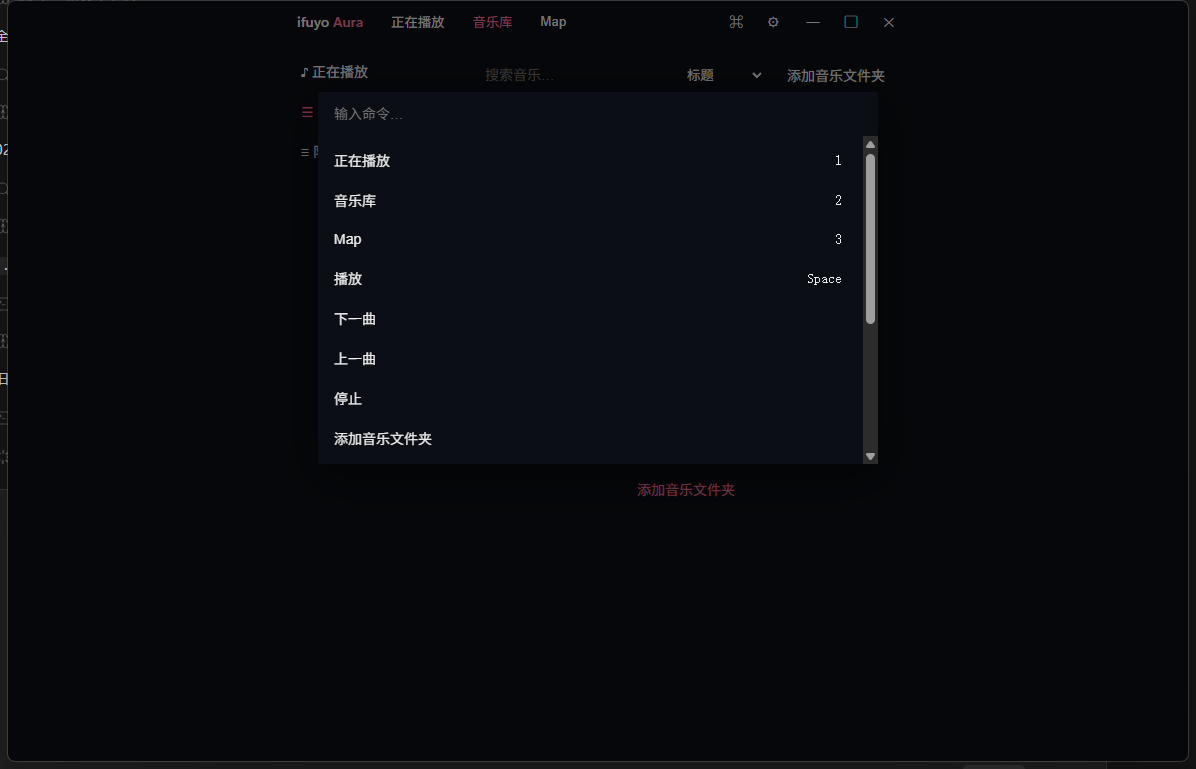
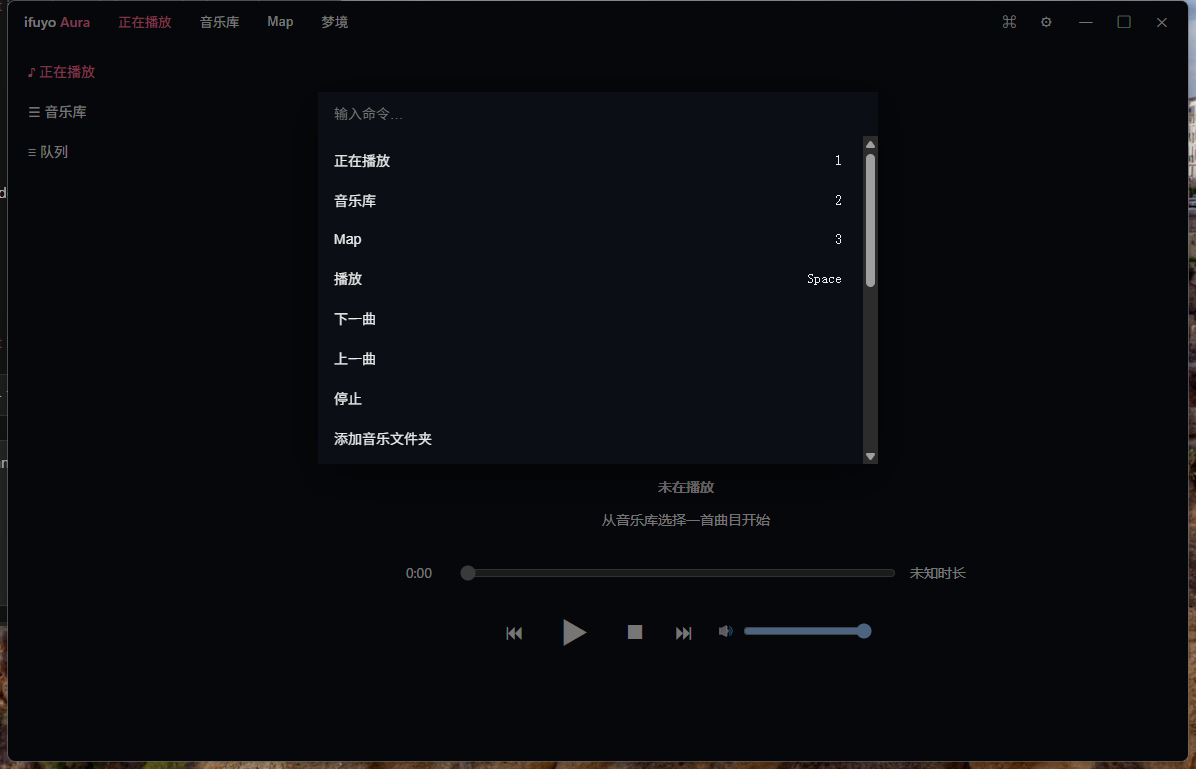
M7-B-f: 满幅渲染修复+真实构建截图×8+生成链 PERF 基线（§243/§244/§282/§320）
真实构建截图管线暴露并修复的缺陷：
- base.css body{display:grid;place-items:center}（Phase 0 遗留）使
  app-root 收缩居中——主布局/画布全被压缩；移除后满幅（§282）
- manifest/seed/ObjectFamily serde 未 camelCase → 前端 validation-first
  守卫拒绝 → 真实运行 fallback（§253 起效但根因在后端 DTO）→ 补齐
  rename_all，快照 JSON 键随动（dev 期文件重建）
- renderer：create/loadWorld 时初始 setSize（此前从未调用 → 画布
  默认 300×150）；scene.background = palette 派生天空色（替代黑带）
- capture 脚本：导航改鼠标点击（ClientToScreen），绕开 IME 对
  SendKeys 文本的拦截；queue 关闭改 Esc

证据：docs/screenshots ×8（01-05/07/10/12）全部来自 custom-protocol
release 构建；10/12 = Dreamscape 真实世界（地形+实例化物件+天空）
perf_generation.rs（ignored 显式跑）：seed→genome 475ns、world 生成
9.9ms(default)/10.8ms(dense)、manifest ser 996µs/de 814µs/hash 60µs、
snapshot save 125µs/load 111µs → PERF.md M7 节

diff --git a/ui/src/visual/dreamscape/DreamscapeRenderer.ts b/ui/src/visual/dreamscape/DreamscapeRenderer.ts
@@ -1,7 +1,7 @@
 // DreamscapeRenderer（§128–§132/§144–§153/§265–§267）：Three.js 装配 +
 // 纯逻辑 engine 驱动。生命周期：create → loadWorld → render ⇄ pause →
 // dispose；context lost → paused → restored 重建（§151）。
-import { Scene, PerspectiveCamera, WebGLRenderer, Clock } from 'three';
+import { Scene, PerspectiveCamera, WebGLRenderer, Clock, Color } from 'three';
 import {
   AutoQuality,
   GenerationGate,
@@ -68,6 +68,7 @@ export class DreamscapeRenderer {
       return false;
     }
     this.applyPixelRatio();
+    this.applyCanvasSize(canvas);
     this.scene = new Scene();
     this.camera = new PerspectiveCamera(55, 1, 0.1, 600);
     // §151：context loss → paused；restored → 重建 GPU 资源。
@@ -110,6 +111,13 @@ export class DreamscapeRenderer {
     this.manifest = manifest;
     this.built = buildScene(manifest, this.settings, this.disposables);
     scene.add(this.built.root);
+    // 天空底色 = palette 基调暗化（§41；替代默认黑）。
+    scene.background = new Color().setHSL(
+      (((manifest.palette.baseHue % 360) + 360) % 360) / 360,
+      manifest.palette.saturation * 0.6,
+      manifest.palette.luminance * 0.25,
+    );
+    this.applyCanvasSize(gl.domElement);
     this.applyEnvironment(manifest, 1);
     // 初始相机位（§65 passive；有界 §68）。
     const lm = manifest.landmarks[0];
@@ -262,6 +270,13 @@ export class DreamscapeRenderer {
       this.built = buildScene(this.manifest, s, this.disposables);
       scene.add(this.built.root);
     }
+  }
+
+  /** 初始/被动尺寸同步（§148 resize 由调用方 coalesce；此处只读一次布局）。 */
+  private applyCanvasSize(canvas: HTMLCanvasElement): void {
+    const w = canvas.clientWidth || 800;
+    const h = canvas.clientHeight || 600;
+    this.resize(w, h);
   }
 
   private applyPixelRatio(): void {

diff --git a/ui/src/App.tsx b/ui/src/App.tsx
@@ -79,10 +79,10 @@ export default function App() {
         if (snap?.state === 'playing') ipc.pause().catch(() => undefined);
         else ipc.play().catch(() => undefined);
       }
-      // §260：Alt+1/2/3 主导航（记录于 DECISIONS D-078）。
-      if (e.altKey && ['1', '2', '3'].includes(e.key)) {
+      // §260：Alt+1/2/3/4 主导航（记录于 DECISIONS D-078）。
+      if (e.altKey && ['1', '2', '3', '4'].includes(e.key)) {
         e.preventDefault();
-        const views = ['now-playing', 'library', 'map'] as const;
+        const views = ['now-playing', 'library', 'map', 'dreamscape'] as const;
         const target = views[Number(e.key) - 1];
         if (target) setView(target);
         return;
@@ -154,9 +154,9 @@ export default function App() {
             </FeatureBoundary>
           )}
         </main>
-        {/* §130/§131：Dreamscape 激活时不挂 Aurora（单高负载 WebGL 规则）。 */}
+        {/* §130/§131：Dreamscape 激活时不挂 Aurora（单高负载 WebGL 规则）；
+            Dreamscape 自带画布与 CSS fallback，无需占位背景。 */}
         {view !== 'dreamscape' && <AuroraCanvas />}
-        {view === 'dreamscape' && <div className="aurora-fallback" aria-hidden />}
       </div>
       <CommandPalette />
       <SettingsPanel />

diff --git a/ui/src/styles/app.css b/ui/src/styles/app.css
@@ -399,10 +399,13 @@ button:focus-visible, input:focus-visible, select:focus-visible, [tabindex]:focu
   color: rgba(255, 255, 255, 0.8);
 }
 
-/* ---- Dreamscape（§203/§275/§280）---- */
-.dreamscape {
+/* ---- Dreamscape（§203/§275/§280；绝对满幅消除 flex 歧义 §282）---- */
+.app-main {
   position: relative;
-  height: 100%;
+}
+.dreamscape {
+  position: absolute;
+  inset: 0;
   overflow: hidden;
 }
 .dreamscape-canvas {

diff --git a/ui/src/styles/base.css b/ui/src/styles/base.css
@@ -19,8 +19,8 @@ body {
   color: rgba(255, 255, 255, 0.92);
   font-family: 'Segoe UI Variable Text', 'Segoe UI', 'Microsoft YaHei UI', system-ui, sans-serif;
   font-size: 14px;
-  display: grid;
-  place-items: center;
+  /* §282：app-root 占满视口（Phase 0 的 grid 居中会让内容收缩居中，
+     Dreamscape 画布与主布局被压缩——已在真实构建截图暴露）。 */
 }
 
 .phase-card {

diff --git a/crates/aura-synth/tests/perf_generation.rs b/crates/aura-synth/tests/perf_generation.rs
@@ -1,0 +1,98 @@
+//! Dreamscape 生成链性能基线（§243/§244）：seed→genome、genome→world、
+//! manifest 序列化/反序列化/hash、快照保存/装载。
+//! `#[ignore]` 显式运行：`cargo test -p aura-synth --test perf_generation -- --ignored --nocapture`
+//! 结果记入 docs/PERF.md（M7 节）。
+
+use std::time::Instant;
+
+use aura_synth::biome::Biome;
+use aura_synth::env::EnvironmentState;
+use aura_synth::genome::Genome;
+use aura_synth::manifest::SceneManifest;
+use aura_synth::seed::{world_identity, DreamscapeSeed};
+use aura_synth::snapshot::DreamscapeSession;
+use aura_synth::world::World;
+
+#[test]
+#[ignore = "perf baseline；显式运行"]
+fn generation_pipeline() {
+    let seed = DreamscapeSeed::from_input("perf");
+
+    // seed → genome（×1000）。
+    let t = Instant::now();
+    for _ in 0..1000 {
+        let _ = Genome::from_seed(&seed);
+    }
+    println!("seed->genome        : {:?}/call", t.elapsed() / 1000);
+
+    let genome = Genome::from_seed(&seed);
+
+    // genome → world（×100；§244 各档：默认/极端密度）。
+    let biome = Biome::select(&seed, &genome);
+    for (tag, g) in [
+        ("default", genome),
+        ("dense", {
+            let mut g = genome;
+            g.set(GenomeField::FloraDensity, 1.0);
+            g
+        }),
+    ] {
+        let t = Instant::now();
+        for _ in 0..100 {
+            let _ = World::generate(&seed, &g, &biome);
+        }
+        let world = World::generate(&seed, &g, &biome);
+        println!(
+            "world gen ({tag})     : {:?}/call (objects={}, landmarks={})",
+            t.elapsed() / 100,
+            world.objects.len(),
+            world.landmarks.len()
+        );
+    }
+
+    // manifest 序列化 / 反序列化 / hash（×500）。
+    let env = EnvironmentState::initial(&seed, 1000);
+    let world = World::generate(&seed, &genome, &biome);
+    let wid = world_identity(&seed, 1, biome.kind.id().as_bytes());
+    let manifest = SceneManifest::from_world(wid, &world, &env, biome.effective_mist_bias());
+    let t = Instant::now();
+    for _ in 0..500 {
+        let _ = serde_json::to_vec(&manifest).unwrap();
+    }
+    let ser = t.elapsed() / 500;
+    let bytes = serde_json::to_vec(&manifest).unwrap();
+    let t = Instant::now();
+    for _ in 0..500 {
+        let _: SceneManifest = serde_json::from_slice(&bytes).unwrap();
+    }
+    let de = t.elapsed() / 500;
+    let t = Instant::now();
+    for _ in 0..500 {
+        let _ = manifest.scene_hash();
+    }
+    println!("manifest serialize  : {ser:?}/call ({} bytes)", bytes.len());
+    println!("manifest deserialize: {de:?}/call");
+    println!("manifest scene_hash : {:?}/call", t.elapsed() / 500);
+
+    // 快照保存（capture+seal+JSON）/ 装载（parse+validate+restore）（×200）。
+    let mut session = DreamscapeSession::new(seed, 0);
+    session.advance(20_000);
+    let t = Instant::now();
+    for _ in 0..200 {
+        let mut snap = session.snapshot();
+        snap.seal();
+        let _ = serde_json::to_vec(&snap).unwrap();
+    }
+    println!("snapshot save       : {:?}/call", t.elapsed() / 200);
+    let snap = session.snapshot();
+    let json = serde_json::to_vec(&snap).unwrap();
+    let t = Instant::now();
+    for _ in 0..200 {
+        let back: aura_synth::snapshot::DreamscapeSnapshot = serde_json::from_slice(&json).unwrap();
+        let _ = back.validate();
+        let _ = DreamscapeSession::restore(&back).unwrap();
+    }
+    println!("snapshot load       : {:?}/call", t.elapsed() / 200);
+}
+
+use aura_synth::genome::GenomeField;

diff --git a/crates/aura-synth/src/manifest.rs b/crates/aura-synth/src/manifest.rs
@@ -18,6 +18,7 @@ pub const MANIFEST_VERSION: u16 = 1;
 
 /// 地形参数补丁（渲染层据此确定性重建高度场，§49 精神）。
 #[derive(Debug, Clone, Copy, PartialEq, Serialize, Deserialize)]
+#[serde(rename_all = "camelCase")]
 pub struct TerrainPatch {
     pub amplitude: f32,
     pub frequency: f32,
@@ -26,6 +27,7 @@ pub struct TerrainPatch {
 
 /// 抽象光态（§40 → manifest 透出，渲染层映射 Three.js）。
 #[derive(Debug, Clone, Copy, PartialEq, Serialize, Deserialize)]
+#[serde(rename_all = "camelCase")]
 pub struct LightState {
     pub sun_intensity: f32,
     pub ambient_intensity: f32,
@@ -34,6 +36,7 @@ pub struct LightState {
 
 /// 大气状态。
 #[derive(Debug, Clone, Copy, PartialEq, Serialize, Deserialize)]
+#[serde(rename_all = "camelCase")]
 pub struct AtmosphereState {
     pub fog: f32,
     pub wind: f32,
@@ -43,6 +46,7 @@ pub struct AtmosphereState {
 
 /// landmark 节点。
 #[derive(Debug, Clone, Copy, PartialEq, Serialize, Deserialize)]
+#[serde(rename_all = "camelCase")]
 pub struct LandmarkNode {
     pub id: u64,
     pub kind: LandmarkKind,
@@ -55,6 +59,7 @@ pub struct LandmarkNode {
 
 /// 实例组（SoA；渲染层 → InstancedMesh，§61）。
 #[derive(Debug, Clone, PartialEq, Serialize, Deserialize)]
+#[serde(rename_all = "camelCase")]
 pub struct InstanceGroup {
     pub family: ObjectFamily,
     pub x: Vec<f32>,
@@ -100,6 +105,7 @@ impl InstanceGroup {
 
 /// 场景清单（§110）。
 #[derive(Debug, Clone, PartialEq, Serialize, Deserialize)]
+#[serde(rename_all = "camelCase")]
 pub struct SceneManifest {
     pub manifest_version: u16,
     /// 世界稳定身份（§18）。

diff --git a/crates/aura-synth/src/env.rs b/crates/aura-synth/src/env.rs
@@ -273,8 +273,9 @@ impl EnvironmentState {
     }
 }
 
-/// 受约束 palette（§41/§42）。
+/// 受约束 palette（§41/§42；camelCase 以对齐 manifest IPC DTO）。
 #[derive(Debug, Clone, Copy, PartialEq, Serialize, Deserialize)]
+#[serde(rename_all = "camelCase")]
 pub struct Palette {
     /// 基调色相（度）。
     pub base_hue: f32,
@@ -484,7 +485,7 @@ mod tests {
         assert!(back.fog <= FOG_MAX);
         assert!((0.0..=1.0).contains(&back.ambient_intensity));
         let mut pal: Palette = serde_json::from_str(
-            r#"{"base_hue":0.0,"accent_hue":0.0,"saturation":0.9,"luminance":0.1,"accent_frequency":0.9}"#,
+            r#"{"baseHue":0.0,"accentHue":0.0,"saturation":0.9,"luminance":0.1,"accentFrequency":0.9}"#,
         )
         .unwrap();
         pal.sanitize();

diff --git a/crates/aura-synth/src/biome.rs b/crates/aura-synth/src/biome.rs
@@ -14,6 +14,7 @@ use crate::seed::{stable_hash64, DreamscapeSeed};
 
 /// 物件族（§57：族集合由 biome 决定；几何形态在下篇渲染层）。
 #[derive(Debug, Clone, Copy, PartialEq, Eq, PartialOrd, Ord, Hash, Serialize, Deserialize)]
+#[serde(rename_all = "lowercase")]
 pub enum ObjectFamily {
     Flora,
     Stone,

diff --git a/crates/aura-synth/src/seed.rs b/crates/aura-synth/src/seed.rs
@@ -35,6 +35,7 @@ pub fn stable_hash64(domain: &[u8], data: &[u8]) -> u64 {
 
 /// 内部确定性 seed（§12）。
 #[derive(Debug, Clone, Copy, PartialEq, Eq, Hash, Serialize, Deserialize)]
+#[serde(rename_all = "camelCase")]
 pub struct DreamscapeSeed {
     pub value: u64,
     pub seed_version: u16,
